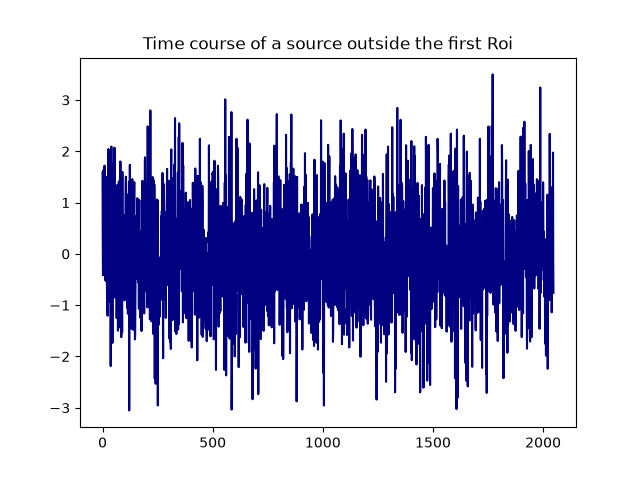
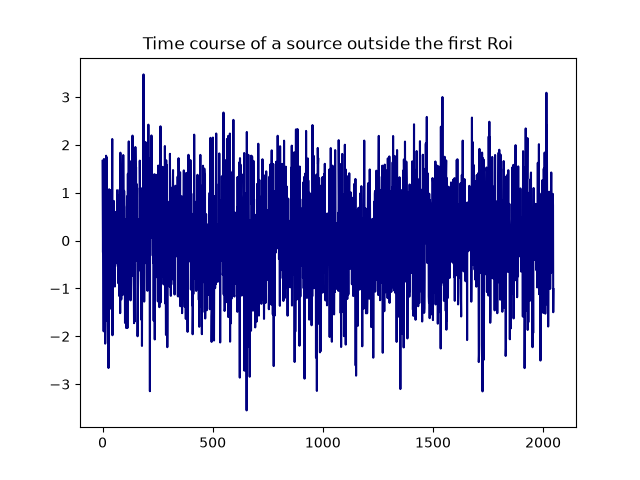
Deploy preview for PR 31 🛫

diff --git a/pr-preview/pr-31/sg_execution_times.html b/pr-preview/pr-31/sg_execution_times.html
@@ -45,7 +45,7 @@
   <link rel="preload" as="script" href="_static/scripts/bootstrap.js?digest=a95f357e85573c9b56d5" />
 <link rel="preload" as="script" href="_static/scripts/pydata-sphinx-theme.js?digest=a95f357e85573c9b56d5" />
 
-    <script src="_static/documentation_options.js?v=8f4c759a"></script>
+    <script src="_static/documentation_options.js?v=90605640"></script>
     <script src="_static/doctools.js?v=fd6eb6e6"></script>
     <script src="_static/sphinx_highlight.js?v=6ffebe34"></script>
     <script src="_static/clipboard.min.js?v=a7894cd8"></script>
@@ -413,7 +413,7 @@
                   
   <section id="computation-times">
 <span id="sphx-glr-sg-execution-times"></span><h1>Computation times<a class="headerlink" href="#computation-times" title="Link to this heading">🔗</a></h1>
-<p><strong>00:07.010</strong> total execution time for 1 file <strong>from all galleries</strong>:</p>
+<p><strong>00:07.325</strong> total execution time for 1 file <strong>from all galleries</strong>:</p>
 <div class="docutils container">
 <style scoped>
 <link href="https://cdnjs.cloudflare.com/ajax/libs/twitter-bootstrap/5.3.0/css/bootstrap.min.css" rel="stylesheet" />
@@ -435,8 +435,8 @@ $(document).ready( function () {
 </thead>
 <tbody>
 <tr class="row-even"><td><p><a class="reference internal" href="generated/tutorials/00_plot_svd.html#sphx-glr-generated-tutorials-00-plot-svd-py"><span class="std std-ref">Conpute SVD</span></a> (<code class="docutils literal notranslate"><span class="pre">../tutorials/00_plot_svd.py</span></code>)</p></td>
-<td><p>00:07.010</p></td>
-<td><p>711.7</p></td>
+<td><p>00:07.325</p></td>
+<td><p>710.1</p></td>
 </tr>
 </tbody>
 </table>

diff --git a/pr-preview/pr-31/api/index.html b/pr-preview/pr-31/api/index.html
@@ -45,7 +45,7 @@
   <link rel="preload" as="script" href="../_static/scripts/bootstrap.js?digest=a95f357e85573c9b56d5" />
 <link rel="preload" as="script" href="../_static/scripts/pydata-sphinx-theme.js?digest=a95f357e85573c9b56d5" />
 
-    <script src="../_static/documentation_options.js?v=8f4c759a"></script>
+    <script src="../_static/documentation_options.js?v=90605640"></script>
     <script src="../_static/doctools.js?v=fd6eb6e6"></script>
     <script src="../_static/sphinx_highlight.js?v=6ffebe34"></script>
     <script src="../_static/clipboard.min.js?v=a7894cd8"></script>

diff --git a/pr-preview/pr-31/api/io.html b/pr-preview/pr-31/api/io.html
@@ -45,7 +45,7 @@
   <link rel="preload" as="script" href="../_static/scripts/bootstrap.js?digest=a95f357e85573c9b56d5" />
 <link rel="preload" as="script" href="../_static/scripts/pydata-sphinx-theme.js?digest=a95f357e85573c9b56d5" />
 
-    <script src="../_static/documentation_options.js?v=8f4c759a"></script>
+    <script src="../_static/documentation_options.js?v=90605640"></script>
     <script src="../_static/doctools.js?v=fd6eb6e6"></script>
     <script src="../_static/sphinx_highlight.js?v=6ffebe34"></script>
     <script src="../_static/clipboard.min.js?v=a7894cd8"></script>

diff --git a/pr-preview/pr-31/api/regions_of_interests.html b/pr-preview/pr-31/api/regions_of_interests.html
@@ -45,7 +45,7 @@
   <link rel="preload" as="script" href="../_static/scripts/bootstrap.js?digest=a95f357e85573c9b56d5" />
 <link rel="preload" as="script" href="../_static/scripts/pydata-sphinx-theme.js?digest=a95f357e85573c9b56d5" />
 
-    <script src="../_static/documentation_options.js?v=8f4c759a"></script>
+    <script src="../_static/documentation_options.js?v=90605640"></script>
     <script src="../_static/doctools.js?v=fd6eb6e6"></script>
     <script src="../_static/sphinx_highlight.js?v=6ffebe34"></script>
     <script src="../_static/clipboard.min.js?v=a7894cd8"></script>

diff --git a/pr-preview/pr-31/api/source_estimate.html b/pr-preview/pr-31/api/source_estimate.html
@@ -45,7 +45,7 @@
   <link rel="preload" as="script" href="../_static/scripts/bootstrap.js?digest=a95f357e85573c9b56d5" />
 <link rel="preload" as="script" href="../_static/scripts/pydata-sphinx-theme.js?digest=a95f357e85573c9b56d5" />
 
-    <script src="../_static/documentation_options.js?v=8f4c759a"></script>
+    <script src="../_static/documentation_options.js?v=90605640"></script>
     <script src="../_static/doctools.js?v=fd6eb6e6"></script>
     <script src="../_static/sphinx_highlight.js?v=6ffebe34"></script>
     <script src="../_static/clipboard.min.js?v=a7894cd8"></script>

diff --git a/pr-preview/pr-31/api/source_space.html b/pr-preview/pr-31/api/source_space.html
@@ -45,7 +45,7 @@
   <link rel="preload" as="script" href="../_static/scripts/bootstrap.js?digest=a95f357e85573c9b56d5" />
 <link rel="preload" as="script" href="../_static/scripts/pydata-sphinx-theme.js?digest=a95f357e85573c9b56d5" />
 
-    <script src="../_static/documentation_options.js?v=8f4c759a"></script>
+    <script src="../_static/documentation_options.js?v=90605640"></script>
     <script src="../_static/doctools.js?v=fd6eb6e6"></script>
     <script src="../_static/sphinx_highlight.js?v=6ffebe34"></script>
     <script src="../_static/clipboard.min.js?v=a7894cd8"></script>

diff --git a/pr-preview/pr-31/genindex.html b/pr-preview/pr-31/genindex.html
@@ -44,7 +44,7 @@
   <link rel="preload" as="script" href="_static/scripts/bootstrap.js?digest=a95f357e85573c9b56d5" />
 <link rel="preload" as="script" href="_static/scripts/pydata-sphinx-theme.js?digest=a95f357e85573c9b56d5" />
 
-    <script src="_static/documentation_options.js?v=8f4c759a"></script>
+    <script src="_static/documentation_options.js?v=90605640"></script>
     <script src="_static/doctools.js?v=fd6eb6e6"></script>
     <script src="_static/sphinx_highlight.js?v=6ffebe34"></script>
     <script src="_static/clipboard.min.js?v=a7894cd8"></script>

diff --git a/pr-preview/pr-31/index.html b/pr-preview/pr-31/index.html
@@ -45,7 +45,7 @@
   <link rel="preload" as="script" href="_static/scripts/bootstrap.js?digest=a95f357e85573c9b56d5" />
 <link rel="preload" as="script" href="_static/scripts/pydata-sphinx-theme.js?digest=a95f357e85573c9b56d5" />
 
-    <script src="_static/documentation_options.js?v=8f4c759a"></script>
+    <script src="_static/documentation_options.js?v=90605640"></script>
     <script src="_static/doctools.js?v=fd6eb6e6"></script>
     <script src="_static/sphinx_highlight.js?v=6ffebe34"></script>
     <script src="_static/clipboard.min.js?v=a7894cd8"></script>

diff --git a/pr-preview/pr-31/install.html b/pr-preview/pr-31/install.html
@@ -45,7 +45,7 @@
   <link rel="preload" as="script" href="_static/scripts/bootstrap.js?digest=a95f357e85573c9b56d5" />
 <link rel="preload" as="script" href="_static/scripts/pydata-sphinx-theme.js?digest=a95f357e85573c9b56d5" />
 
-    <script src="_static/documentation_options.js?v=8f4c759a"></script>
+    <script src="_static/documentation_options.js?v=90605640"></script>
     <script src="_static/doctools.js?v=fd6eb6e6"></script>
     <script src="_static/sphinx_highlight.js?v=6ffebe34"></script>
     <script src="_static/clipboard.min.js?v=a7894cd8"></script>

diff --git a/pr-preview/pr-31/py-modindex.html b/pr-preview/pr-31/py-modindex.html
@@ -44,7 +44,7 @@
   <link rel="preload" as="script" href="_static/scripts/bootstrap.js?digest=a95f357e85573c9b56d5" />
 <link rel="preload" as="script" href="_static/scripts/pydata-sphinx-theme.js?digest=a95f357e85573c9b56d5" />
 
-    <script src="_static/documentation_options.js?v=8f4c759a"></script>
+    <script src="_static/documentation_options.js?v=90605640"></script>
     <script src="_static/doctools.js?v=fd6eb6e6"></script>
     <script src="_static/sphinx_highlight.js?v=6ffebe34"></script>
     <script src="_static/clipboard.min.js?v=a7894cd8"></script>

diff --git a/pr-preview/pr-31/search.html b/pr-preview/pr-31/search.html
@@ -43,7 +43,7 @@
   <link rel="preload" as="script" href="_static/scripts/bootstrap.js?digest=a95f357e85573c9b56d5" />
 <link rel="preload" as="script" href="_static/scripts/pydata-sphinx-theme.js?digest=a95f357e85573c9b56d5" />
 
-    <script src="_static/documentation_options.js?v=8f4c759a"></script>
+    <script src="_static/documentation_options.js?v=90605640"></script>
     <script src="_static/doctools.js?v=fd6eb6e6"></script>
     <script src="_static/sphinx_highlight.js?v=6ffebe34"></script>
     <script src="_static/clipboard.min.js?v=a7894cd8"></script>

diff --git a/pr-preview/pr-31/_static/documentation_options.js b/pr-preview/pr-31/_static/documentation_options.js
@@ -1,5 +1,5 @@
 const DOCUMENTATION_OPTIONS = {
-    VERSION: '0.1.0.dev139+g098efcdc9',
+    VERSION: '0.1.0.dev141+g5c55e08bd',
     LANGUAGE: 'en',
     COLLAPSE_INDEX: false,
     BUILDER: 'html',
